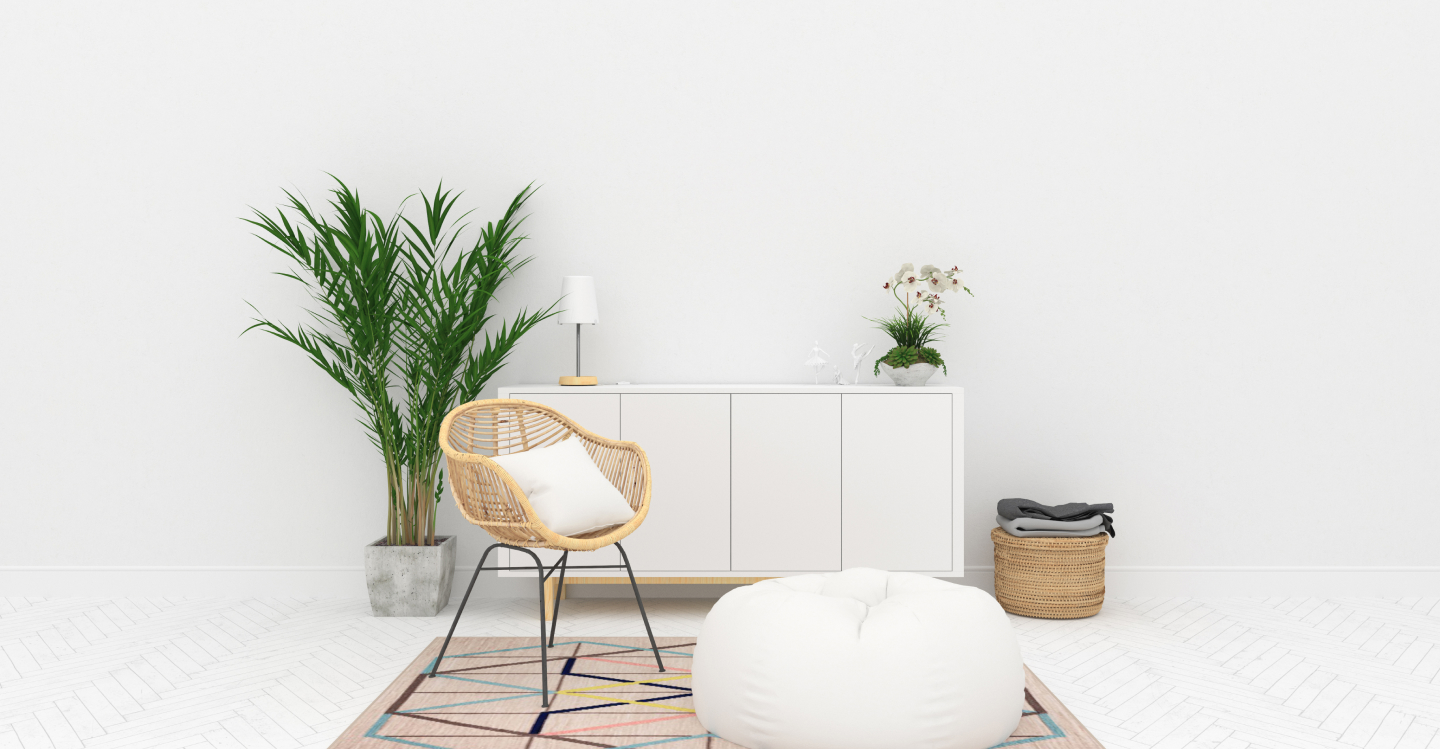
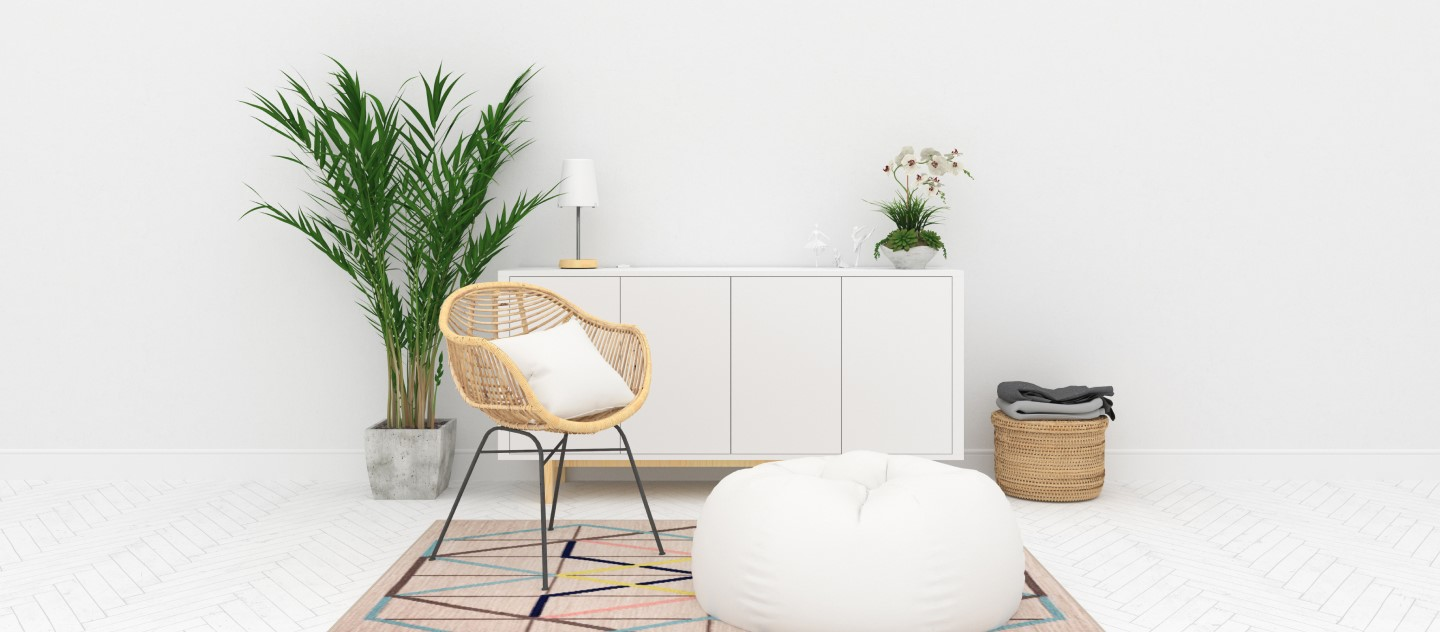
feat: implement hero section and feature bar

Changed region(s): [[0.1562, 0.0902, 0.6875, 1.0], [0.625, 0.6013, 0.7812, 0.8418], [0.6875, 0.8718, 0.75, 0.9921]]

diff --git a/index.html b/index.html
@@ -13,19 +13,19 @@
     </style>
     <title>Document</title>
   </head>
-  <body class="flex flex-col w-full min-h-screen relative">
+  <body class="relative flex flex-col w-full min-h-screen">
     <!-- Header -->
-    <header class="w-full sticky top-0 z-10 p-2 lg:px-18 lg:py-5">
-      <nav class="w-full flex justify-between items-center">
-        <div class="font-bold text-primary text-lg lg:text-4xl">Furniture</div>
+    <header class="sticky z-10 w-full p-2 bg-white top-0r lg:px-18 lg:py-5">
+      <nav class="flex items-center justify-between w-full">
+        <div class="text-lg font-bold text-primary lg:text-4xl">Furniture</div>
 
         <!-- Mobile menu button -->
-        <button id="mobile-menu-button" class="w-8 lg:hidden cursor-pointer">
+        <button id="mobile-menu-button" class="w-8 cursor-pointer lg:hidden">
           <img src="/assets/icons/mobile-menu-icon.svg" alt="Menu" />
         </button>
 
         <!-- Navigation links -->
-        <div class="hidden flex items-center gap-3 transition nav-items-container lg:gap-10 lg:flex">
+        <div class="flex items-center hidden gap-3 transition nav-items-container lg:gap-10 lg:flex">
           <a href="#">Home</a>
           <a href="#">Service</a>
           <a href="#">Doctors</a>
@@ -37,11 +37,77 @@
 
     <!-- Main content -->
     <main class="flex-grow">
-      <div>main content</div>
+      <!-- Hero section -->
+      <!-- @todo: return responsive this -->
+      <section class="!p-0 relative">
+        <div class="w-full">
+          <img
+            class="object-cover object-center w-full h-full"
+            src="/assets/images/hero-section-image.jpg"
+            alt="Hero"
+          />
+        </div>
+
+        <div class="absolute px-5 py-3 rounded-md right-30 top-50 bg-secondary">
+          <div class="p-3 space-y-5">
+            <h5 class="font-semibold">New Arrival</h5>
+
+            <h3 class="text-4xl font-bold text-primary">
+              Discover Our <br />
+              New Collection
+            </h3>
+
+            <p class="font-[500] max-w-[480px] leading-8">
+              Lorem ipsum dolor sit amet consectetur, adipisicing elit. Modi tempora rem aspernatur ut aliquid harum!
+            </p>
+
+            <button
+              class="buy-now-btn px-8 py-4 font-bold text-white text-md border-none rounded-full bg-primary !w-[180px] cursor-pointer"
+            >
+              BUY NOW
+            </button>
+          </div>
+        </div>
+      </section>
+
+      <!-- Feature Bar -->
+      <div id="feature-bar" class="py-5 bg-secondary lg:py-10">
+        <div class="flex flex-col items-center justify-center gap-6 md:flex-row md:justify-around">
+          <div
+            class="flex flex-col items-center gap-3 text-center feature-bar-item md:flex-row md:items-center md:gap-6 md:text-left"
+          >
+            <img class="h-12 w-14" src="/assets/icons/delivery-icon.svg" />
+            <div>
+              <h3 class="font-bold">Free Shipping</h3>
+              <p class="text-sm">Lorem ipsum dolor sit amet.</p>
+            </div>
+          </div>
+
+          <div
+            class="flex flex-col items-center gap-3 text-center feature-bar-item md:flex-row md:items-center md:gap-6 md:text-left"
+          >
+            <img class="h-12 w-14" src="/assets/icons/return-icon.svg" />
+            <div>
+              <h3 class="font-bold">Support 24/7</h3>
+              <p class="text-sm">Lorem ipsum dolor sit amet.</p>
+            </div>
+          </div>
+
+          <div
+            class="flex flex-col items-center gap-3 text-center feature-bar-item md:flex-row md:items-center md:gap-6 md:text-left"
+          >
+            <img class="h-12 w-14" src="/assets/icons/security-icon.svg" />
+            <div>
+              <h3 class="font-bold">100% Authentic</h3>
+              <p class="text-sm">Lorem ipsum dolor sit amet.</p>
+            </div>
+          </div>
+        </div>
+      </div>
     </main>
 
     <!-- Footer -->
-    <footer class="w-full bg-primary text-white p-2 lg:px-18 lg:py-5">
+    <footer class="w-full p-2 text-white bg-primary lg:px-18 lg:py-5">
       <div class="grid grid-cols-6 gap-5 lg:gap-10">
         <!-- Footer left section -->
         <div class="col-span-6 lg:col-span-2">
@@ -56,10 +122,10 @@
         </div>
 
         <!-- Footer right section -->
-        <div class="footer-container col-span-6 lg:col-span-4">
+        <div class="col-span-6 footer-container lg:col-span-4">
           <h3 class="text-xl font-bold lg:text-2xl">Instagram Shop</h3>
 
-          <div class="w-full flex flex-wrap items-center gap-3 mt-2 pb-2 lg:mt-5 lg:gap-6">
+          <div class="flex flex-wrap items-center w-full gap-3 pb-2 mt-2 lg:mt-5 lg:gap-6">
             <img src="/assets/images/footer-image-1.jpg" alt="" />
             <img src="/assets/images/footer-image-2.jpg" alt="" />
             <img src="/assets/images/footer-image-3.jpg" alt="" />

diff --git a/style.css b/style.css
@@ -25,10 +25,6 @@ body {
   font-size: 14px;
 }
 
-img {
-  width: 100%;
-}
-
 a {
   text-decoration: none;
   color: unset;
@@ -39,6 +35,11 @@ li {
   list-style: none;
 }
 
+section {
+  padding: 60px 0px;
+}
+
+/* Header */
 .nav-items-container > a {
   font-weight: 600;
   transition: all 0.2s ease-in;
@@ -49,9 +50,25 @@ li {
   scale: 1.1;
 }
 
+/* Hero section */
+.buy-now-btn {
+  transition: transform 0.15s cubic-bezier(0.4, 0, 0.2, 1), box-shadow 0.15s cubic-bezier(0.4, 0, 0.2, 1);
+}
+.buy-now-btn:active {
+  transform: scale(0.95);
+  box-shadow: 0 2px 12px rgba(5, 76, 115, 0.15);
+}
+
+/* Footer */
 .footer-container > div > img {
   width: 200px;
   height: fit-content;
   object-fit: cover;
   border-radius: 5px;
+}
+
+@media only screen and (min-width: 640px) {
+  section {
+    padding: 40px 0px;
+  }
 }